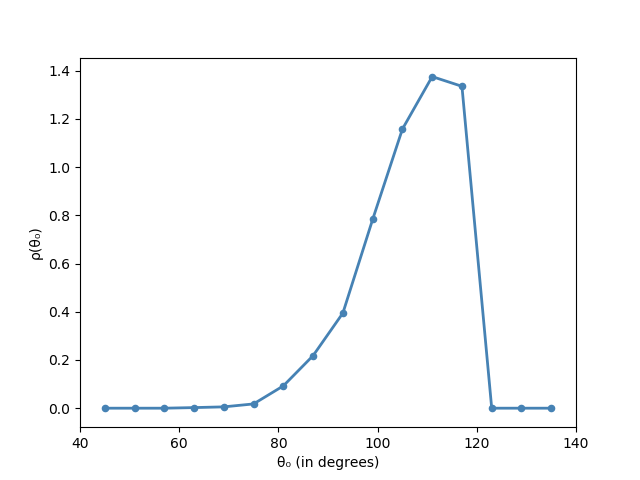
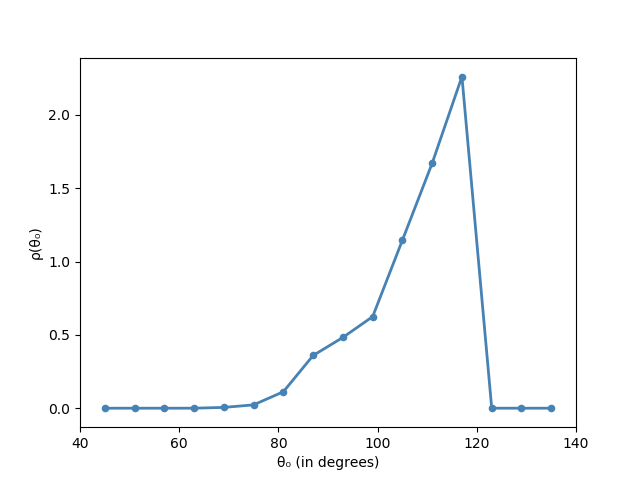
fix errors in the energy example

diff --git a/content/examples/energy-minimization.md b/content/examples/energy-minimization.md
@@ -51,7 +51,7 @@ In the following we will approximate this integral using homotopy continuation. 
 
 <p style="text-align:center;"><img src="/images/cyclohexane_distribution.png" width="520px"/></p>
 
-The plot shows a peak at around $\theta =  110^{\circ}$. It is known that the total energy of the cyclohexane system is minimized when all angles between consecutive bonds achieve $110.9^{\circ}$. Our experiment gives a good approximation of the true molecular geometry of cyclohexane. An example where all the angles between consecutive bonds are $110.9^{\circ}$ is shown in the picture above.
+The plot shows a peak at around $\theta =  114^{\circ}$. It is known that the total energy of the cyclohexane system is minimized when all angles between consecutive bonds achieve $110.9^{\circ}$. Our experiment gives a good approximation of the true molecular geometry of cyclohexane. An example where all the angles between consecutive bonds are $110.9^{\circ}$ is shown in the picture above.
 
 
 ## Equations for the cyclohexane variety
@@ -121,7 +121,7 @@ for some $\Delta \theta >0$. In our experiment we take $\Delta \theta = 3^\circ$
 
 The two integrals are evaluated using the [integration guide](/examples/monte-carlo-integration). Recall from this guide that we have $\mu_1(\theta_0) = \mathbb{E}  \overline{f}(A,b),$ where
 
-$$\overline{f}(A,b):= \sum\_{q\in M: Ax(q)=b, \atop \theta- \Delta\theta < \theta(q) < \theta + \Delta\theta} \frac{f(q)}{\alpha(q)}\text{ and }\alpha(q) = \frac{\Gamma(\frac{n+1}{2})}{\sqrt{\pi}^{n+1}} \frac{\sqrt{1+\langle x(q), \pi\_{x(q)} x(q)\rangle}}{1+\Vert x(q)\Vert^2},$$
+$$\overline{f}(A,b):= \sum\_{q\in M: Ax(q)=b, \atop \theta- \Delta\theta < \theta(q) < \theta + \Delta\theta} \frac{f(q)}{\alpha(q)}\text{ and }\alpha(q) = \frac{\Gamma(\frac{n+1}{2})}{\sqrt{\pi}^{n+1}} \frac{\sqrt{1+\langle x(q), \pi\_{x(q)} x(q)\rangle}}{(1+\Vert x(q)\Vert)^{\frac{n+1}{2}}},$$
 
 and where $\pi_x$ is the orthogonal projection onto the normal space $\mathrm{N}_x M$ of $M$ at $x$.
 
@@ -140,7 +140,7 @@ function α(x₀)
     J₀ = J(x₀)
     U = Matrix(qr(J₀).Q)
     π_x₀ = U * (transpose(U) * x₀)
-    return sqrt(1 + (x₀ ⋅ π_x₀)) /  (1 + (x₀ ⋅ x₀))
+    return sqrt(1 + (x₀ ⋅ π_x₀)) /  sqrt(1 + (x₀ ⋅ x₀))^(n+1)
 end
 ```
 
@@ -263,7 +263,7 @@ $$\mathrm{Prob}\\{\vert \mathrm{E}(f,k) -  \mu_1(\theta_0) \vert \geq \varepsilo
 where $\sigma^2$ is the variance of $\overline{f}(A,b)$ and similar for $E(1,k)$. From the plot above we can deduce that
 
 ```julia
-ε = 2
+ε = 1e2
 ```
 
 is a good accuracy for both $\mu_1(\theta_0)$ and $\mu_2(\theta_0)$.
@@ -273,7 +273,7 @@ Using the empirical variances to approximate the true variance we get the follow
 ```julia-repl
 julia> s²(f̄) = std.(empirical_distributions_f̄)
 julia> maximum(s²(f̄) ./ (ε^2 * k))
-0.020642667724759842
+0.0018945016028972723
 ```
 
 and
@@ -281,10 +281,10 @@ and
 ```julia-repl
 julia> s²(const1̄) = std.(empirical_distributions_const1̄)
 julia> maximum(s²(const1̄) ./ (ε^2 * k))
-0.03996983475573611
+0.0018301742629020274
 ```
 
-That is, the maximum deviation probability is less than $4$% in both cases. We conclude that our approximation of $\rho(\theta) = K\\mathrm{Prob}\\{\theta(q) = \theta_0\\}$ is a good approximation.
+That is, the maximum deviation probability is less than $1$% in both cases. We conclude that our approximation of $\rho(\theta) = K\\mathrm{Prob}\\{\theta(q) = \theta_0\\}$ is a good approximation.
 
 
 

diff --git a/content/examples/monte-carlo-integration.md b/content/examples/monte-carlo-integration.md
@@ -29,7 +29,7 @@ $$\overline{f}(A,b):= \sum\_{x\in V: Ax=b} \frac{f(x)}{\alpha(x)},$$
 
 where
 
-$$\alpha(x) = \frac{\Gamma(\frac{n+1}{2})}{\sqrt{\pi}^{n+1}} \frac{\sqrt{1+\langle x, \pi_x x\rangle}}{1+\Vert x\Vert^2}$$
+$$\alpha(x) = \frac{\Gamma(\frac{n+1}{2})}{\sqrt{\pi}^{n+1}} \frac{\sqrt{1+\langle x, \pi_x x\rangle}}{(1+\Vert x\Vert)^{\frac{n+1}{2}}}$$
 
 and where $n=\mathrm{dim}(V)$, and where $\pi_x$ is the orthogonal projection onto the normal space of $V$ at $x$. The main theorem of [the article](https://arxiv.org/abs/1810.06271) yields
 
@@ -72,7 +72,7 @@ function f̄(R)
 end
 function α(z, J)
     N = normalize!([j(x=>z) for j in J])
-    Γ * sqrt(1 + (z ⋅ N)^2) / (1 + z⋅z)
+    Γ * sqrt(1 + (z ⋅ N)^2) / sqrt(1 + z⋅z)^(n+1)
 end
 ```
 
